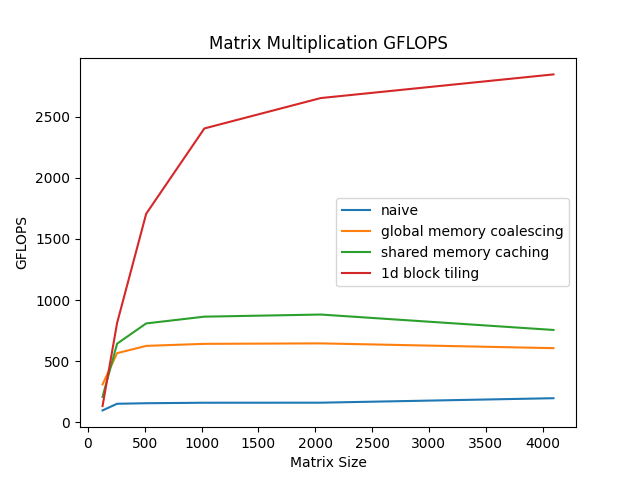
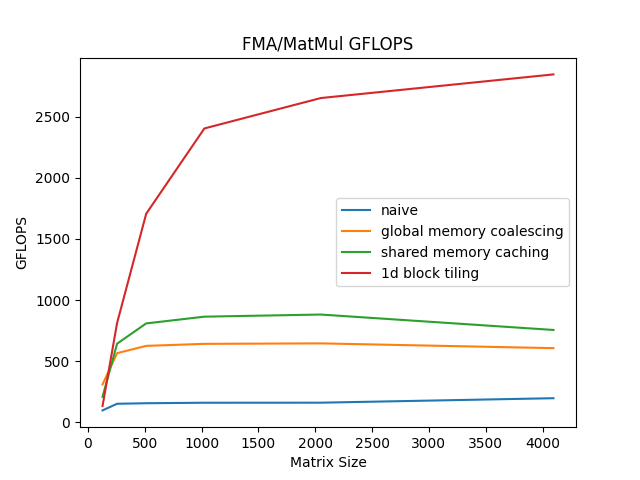
finalize

Changed region(s): [[0.3125, 0.0625, 0.7188, 0.125]]

diff --git a/visual.py b/visual.py
@@ -14,8 +14,8 @@ mm_times = {"naive": [0.0440, 0.2243, 1.7428, 13.5844, 108.3955, 704.1966],
              "1d block tiling": [0.0319, 0.0413, 0.1573, 0.8926, 6.4709, 48.2440]}
 
 softmax_times = {"naive": [0.0236, 0.0696, 0.4557, 3.4499, 28.3904, 220.0117],
-                 "smem": [0.0451, 0.0410, 0.0543, 0.0788, 0.2796, 0.9288],
-                 "unrolled_smem": [0.0143, 0.0151, 0.0191, 0.0460, 0.2488, 0.8243]}
+                 "shared memory reduction": [0.0451, 0.0410, 0.0543, 0.0788, 0.2796, 0.9288],
+                 "unrolled smem": [0.0143, 0.0151, 0.0191, 0.0460, 0.2488, 0.8243]}
 
 softmax_gflops = {"naive": [5.5652, 7.5294, 4.6022, 2.4316, 1.1819, 0.6100],
                  "shared memory reduction": [2.5455, 11.2000, 33.8113, 93.0909, 105.0256, 126.4476],
@@ -27,7 +27,7 @@ if __name__ == '__main__':
         ax.plot(matrix_sizes, mm_gflops[method], label=method)
     ax.set_xlabel('Matrix Size')
     ax.set_ylabel('GFLOPS')
-    ax.set_title('Matrix Multiplication GFLOPS')
+    ax.set_title('FMA/MatMul GFLOPS')
     ax.legend()
     plt.show()
     
@@ -36,7 +36,7 @@ if __name__ == '__main__':
         ax.plot(matrix_sizes, mm_times[method], label=method)
     ax.set_xlabel('Matrix Size')
     ax.set_ylabel('Time (ms)')
-    ax.set_title('Matrix Multiplication Time (log scale)')
+    ax.set_title('FMA/MatMul Time (log y-scale)')
     ax.legend()
     ax.set_yscale('log')
     plt.show()
@@ -56,7 +56,7 @@ if __name__ == '__main__':
         ax.plot(matrix_sizes, softmax_times[method], label=method)
     ax.set_xlabel('Matrix Size')
     ax.set_ylabel('Time (ms)')
-    ax.set_title('Softmax Time (log scale)')
+    ax.set_title('Softmax Time (log y-scale)')
     ax.set_yscale('log')
     ax.legend()
     plt.show()

diff --git a/README.md b/README.md
@@ -62,7 +62,7 @@ SMEM reduction Kernel max error: 4.097819e-08
   |             | Time per epoch   | Performance (%) | Performance (x)|
   | :---:          |  :---:           | :---:| :---:|
   | **Naive NN**      |  239 ms          |100%|1.00x|
-  | **Optimized NN**  |  123 ms          |100 + 48.53%|1.94x|
+  | **Optimized NN**  |  123 ms          |148.53%|1.94x|
 
 
 #### Naive NN implementation
